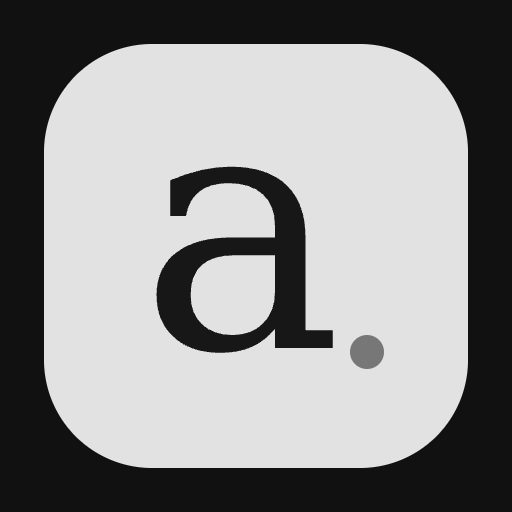
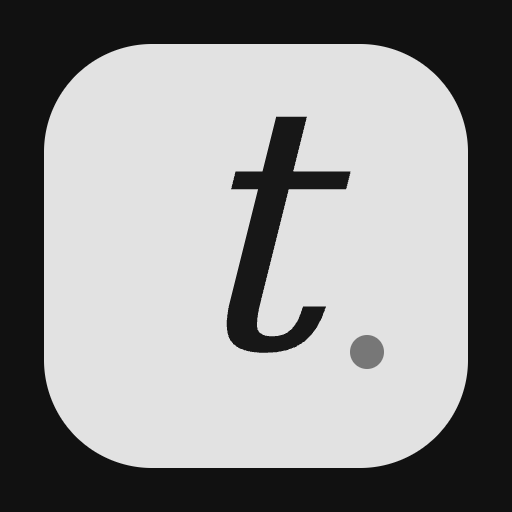
Renombra la app a Tareas y amplía a veinte colores de cursos

Changed region(s): [[0.2812, 0.2188, 0.6875, 0.6875]]

diff --git a/index.html b/index.html
@@ -4,7 +4,7 @@
     <meta charset="utf-8" />
     <meta name="viewport" content="width=device-width,initial-scale=1" />
     <meta name="theme-color" content="#111111" />
-    <title>Apuntes · Tu universidad, en orden</title>
+    <title>Tareas · Tu universidad, en orden</title>
     <link rel="manifest" href="./manifest.webmanifest" />
     <link rel="icon" href="./icons/icon-192.png" />
     <link rel="apple-touch-icon" href="./icons/icon-192.png" />
@@ -16,7 +16,7 @@
   </head>
   <body>
     <div class="prototype">
-      <span>● &nbsp; Apuntes · Gratis, sin anuncios</span
+      <span>● &nbsp; Tareas · Gratis, sin anuncios</span
       ><span><span id="connection-status">Guardado local</span></span>
     </div>
     <div class="layout">
@@ -28,7 +28,7 @@
         >
           ×
         </button>
-        <div class="brand"><span>a</span>apuntes.</div>
+        <div class="brand"><span>t</span>tareas.</div>
         <div class="university">
           <span>U</span>
           <div>Mi universidad<small>Tu espacio, a tu ritmo</small></div>
@@ -104,7 +104,7 @@
               <div class="paper-back"></div>
               <div class="paper-front">
                 <small>UNIVERSIDAD</small>
-                <div>apuntes.</div>
+                <div>tareas.</div>
                 <p>☑ ──────</p>
                 <p>□ ────</p>
                 <p>□ ──────</p>
@@ -364,6 +364,20 @@
             <option value="#dcaebd">Rosa suave</option>
             <option value="#d8cc9f">Arena</option>
             <option value="#a9cdd2">Azul niebla</option>
+            <option value="#edb0a4">Coral</option>
+            <option value="#e8a6ae">Rojo empolvado</option>
+            <option value="#d7a7cf">Malva</option>
+            <option value="#b6a7df">Amatista</option>
+            <option value="#aab0e8">Bígaro</option>
+            <option value="#96b9de">Azul cielo</option>
+            <option value="#97cadc">Celeste</option>
+            <option value="#99d2c8">Turquesa</option>
+            <option value="#acd8bc">Menta</option>
+            <option value="#bdcda8">Salvia</option>
+            <option value="#d0dca8">Lima suave</option>
+            <option value="#e7d599">Amarillo suave</option>
+            <option value="#cbb9a9">Topo</option>
+            <option value="#c7ccd5">Gris perla</option>
           </select></label
         >
         <p class="hint">El curso se guardará en este navegador.</p>
@@ -562,12 +576,9 @@
             hidden /></label
         ><button class="secondary" id="export-recovery">
           Descargar datos sin procesar</button
-        ><a class="secondary" href="./descargas/apuntes-portable.html" download
+        ><a class="secondary" href="./descargas/tareas-portable.html" download
           >Descargar HTML sin instalación</a
-        ><a
-          class="secondary"
-          href="./descargas/apuntes-v1.2.0-beta.zip"
-          download
+        ><a class="secondary" href="./descargas/tareas-v1.3.0-beta.zip" download
           >Descargar paquete ZIP</a
         ><button class="secondary" id="open-cloud">Cuenta y colaboración</button
         ><button class="text" id="load-examples">
@@ -580,7 +591,7 @@
         esta app.
       </p>
       <p class="hint">
-        Versión 1.2.0-beta ·
+        Versión 1.3.0-beta ·
         <a href="./PRIVACY.md" target="_blank" rel="noopener">Privacidad</a> ·
         <a href="./docs/INSTALAR.md" target="_blank" rel="noopener"
           >Cómo instalar</a
@@ -589,7 +600,7 @@
     </dialog>
     <dialog id="install-dialog" class="wide">
       <div class="modal-heading">
-        <h2>Instala Apuntes gratis</h2>
+        <h2>Instala Tareas gratis</h2>
         <button class="icon" data-close="install-dialog" aria-label="Cerrar">
           ×
         </button>
@@ -613,7 +624,7 @@
         HTML descargado directamente, funciona como archivo, pero no se puede
         instalar como PWA.
       </p>
-      <a class="secondary" href="./descargas/apuntes-portable.html" download
+      <a class="secondary" href="./descargas/tareas-portable.html" download
         >Descargar HTML independiente</a
       >
     </dialog>
@@ -634,9 +645,9 @@
           Entrar con Google
         </button>
         <p class="hint">
-          Se abre el navegador para elegir tu cuenta y después vuelves a
-          Apuntes. Tu contraseña de Google no se introduce en esta app. Solo
-          solicitamos tu identidad básica, no acceso a Gmail, Drive ni Calendar.
+          Se abre el navegador para elegir tu cuenta y después vuelves a Tareas.
+          Tu contraseña de Google no se introduce en esta app. Solo solicitamos
+          tu identidad básica, no acceso a Gmail, Drive ni Calendar.
         </p>
         <details id="email-access">
           <summary>Otros métodos: correo y contraseña</summary>

diff --git a/app.js b/app.js
@@ -761,14 +761,14 @@ function deliverReminder(message) {
         navigator.serviceWorker.getRegistration().then((reg) => {
           if (reg)
             reg
-              .showNotification("Apuntes · Tus entregas", {
+              .showNotification("Tareas · Tus entregas", {
                 body: message,
                 tag: "apuntes-reminder",
               })
               .catch(() => {});
         });
       }
-      new Notification("Apuntes · Tus entregas", {
+      new Notification("Tareas · Tus entregas", {
         body: message,
         tag: "apuntes-local-reminder",
       });
@@ -928,7 +928,7 @@ function updateShare() {
   }
   setShareLink(link, "Te comparto una copia: " + currentPayload.title);
   $("#share-error").textContent = nativeAndroid()
-    ? "El receptor necesita Apuntes para Android instalada. El enlace apuntes:// se abre con la app; WhatsApp puede mostrarlo solo como texto."
+    ? "El receptor necesita Tareas para Android instalada. El enlace apuntes:// se abre con la app; WhatsApp puede mostrarlo solo como texto."
     : location.protocol === "file:"
       ? "El enlace de un archivo local no puede abrirse en otro dispositivo. Comparte desde una dirección HTTPS."
       : "Solo se comparten los datos elegidos. No se comparte tu progreso, recordatorios ni notas personales.";
@@ -1487,7 +1487,7 @@ $("#export-backup").addEventListener("click", () => {
     return { ...copy, shareMode: "copy", shareRole: "admin" };
   });
   downloadFile(
-    `apuntes-${offset(0)}.json`,
+    `tareas-${offset(0)}.json`,
     JSON.stringify(
       {
         version: 1,
@@ -1508,7 +1508,7 @@ $("#export-backup").addEventListener("click", () => {
 $("#export-recovery").addEventListener("click", () => {
   try {
     downloadFile(
-      "apuntes-recuperacion.json",
+      "tareas-recuperacion.json",
       JSON.stringify(
         {
           current: localStorage.getItem(STORAGE),
@@ -1530,7 +1530,9 @@ $("#import-backup").addEventListener("change", async (e) => {
       throw Error("El respaldo supera el límite de 2 MB.");
     const data = JSON.parse(await file.text());
     if (!validBackup(data))
-      throw Error("El archivo no es un respaldo válido de Apuntes.");
+      throw Error(
+        "El archivo no es un respaldo válido de Tareas (antes Apuntes).",
+      );
     if (
       (tasks.length || courses.length) &&
       !confirm(

diff --git a/src/install.js b/src/install.js
@@ -22,7 +22,7 @@ export function setupInstall(notify) {
   });
   window.addEventListener("appinstalled", () => {
     button.textContent = "App instalada";
-    notify("Apuntes ya está instalada.");
+    notify("Tareas ya está instalada.");
   });
   const status = document.querySelector("#connection-status");
   let offlineReady = location.protocol === "file:" || nativeAndroid();
@@ -51,7 +51,7 @@ export function setupInstall(notify) {
               navigator.serviceWorker.controller
             )
               notify(
-                "Hay una actualización. Cierra todas las ventanas de Apuntes y vuelve a abrir.",
+                "Hay una actualización. Cierra todas las ventanas de Tareas y vuelve a abrir.",
               );
           });
         check(reg.installing);

diff --git a/sw.js b/sw.js
@@ -1,4 +1,4 @@
-const CACHE = "apuntes-v1.2.0-beta";
+const CACHE = "apuntes-v1.3.0-beta";
 const ASSETS = [
   "./",
   "./index.html",

diff --git a/android/app/src/androidTest/java/pe/apuntes/app/AppTest.java b/android/app/src/androidTest/java/pe/apuntes/app/AppTest.java
@@ -97,8 +97,10 @@ public class AppTest {
         try(ActivityScenario<MainActivity> scenario=ActivityScenario.launch(MainActivity.class)){
             scenario.onActivity(a->activity=a);
             waitFor("!!document.querySelector('#install-app:disabled') && document.querySelector('#connection-status').textContent.toLowerCase().includes('sin conexión')");
+            assertEquals("Tareas",activity.getApplicationInfo().loadLabel(activity.getPackageManager()).toString());
+            assertEquals("20",js("document.querySelector('#course-color').options.length"));
             assertEquals("0",js("document.querySelectorAll('.task').length"));
-            js("document.querySelector('[data-view=courses]').click();document.querySelector('#add-course').click();document.querySelector('#course-name').value='Física móvil';document.querySelector('#course-form').requestSubmit();");
+            js("document.querySelector('[data-view=courses]').click();document.querySelector('#add-course').click();document.querySelector('#course-name').value='Física móvil';document.querySelector('#course-color').value='#99d2c8';document.querySelector('#course-form').requestSubmit();");
             waitFor("document.querySelector('#courses-count').textContent==='1'");
             js("document.querySelector('[data-view=pending]').click();document.querySelector('#new-task').click();document.querySelector('#task-title').value='Entrega Android';document.querySelector('#task-due').value='2030-01-01';document.querySelector('#task-notes').value='Notas ñ 🎓';document.querySelector('#task-form').requestSubmit();");
             waitFor("document.querySelectorAll('#task-list .task').length===1");
@@ -118,6 +120,7 @@ public class AppTest {
             JSONObject backup=new JSONObject(new String(Files.readAllBytes(output.toPath()),StandardCharsets.UTF_8));
             assertEquals("Editada en Android",backup.getJSONArray("tasks").getJSONObject(0).getString("title"));
             assertEquals("Notas ñ 🎓",backup.getJSONArray("tasks").getJSONObject(0).getString("notes"));
+            assertEquals("#99d2c8",backup.getJSONArray("courses").getJSONObject(0).getString("color"));
             scenario.recreate();scenario.onActivity(a->activity=a);
             waitFor("document.querySelector('.task-title-button')?.textContent==='Editada en Android'");
             // Links generated by the APK must target this app, never appassets.androidplatform.net.

diff --git a/docs/GOOGLE.md b/docs/GOOGLE.md
@@ -2,18 +2,18 @@
 
 Decisión del propietario: usar Google en lugar de contratar SMTP o publicar una dirección postal. No hay que continuar el registro en Brevo. **El proveedor Google aún requiere configuración del propietario; incluir el botón no lo activa.**
 
-## Qué solicita Apuntes
+## Qué solicita Tareas
 
 Solo `openid`, correo y perfil básico. No solicita Gmail, Drive, Calendar, contactos ni acceso offline a servicios Google. La contraseña se introduce únicamente en Google, desde el navegador del sistema, no dentro de la app. Supabase administra las identidades y las sesiones sujetas a las RLS instaladas.
 
-El APK 1.2 incluye la URL/clave pública del proyecto real. No incluye ni necesita una contraseña Google ni el secreto OAuth del cliente. El APK 1.1 no tiene esta función: necesita una nueva instalación (primero exporta respaldo).
+El APK 1.3 incluye la URL/clave pública del proyecto real. No incluye ni necesita una contraseña Google ni el secreto OAuth del cliente. El APK 1.1 no tiene esta función: necesita una nueva instalación (primero exporta respaldo).
 
 ## Configuración manual segura (una sola vez)
 
 La integración del agente con Supabase permite administrar las opciones básicas de Auth, pero no introducir credenciales del proveedor Google. No existe una conexión de Google Cloud disponible en esta conversación. **El propietario debe configurar las credenciales directamente en los paneles, no enviarlas al chat.**
 
-1. Abre https://console.cloud.google.com/ y selecciona/crea un proyecto para **Apuntes**. Este acceso usa Google Auth Platform/OAuth, no Gmail API, Drive ni Calendar. No habilites servicios de pago ni facturación para estos pasos. Si el panel exige contratar algo, detente.
-2. En **Google Auth Platform → Branding**, configura el nombre **Apuntes**, un correo de asistencia y un correo de contacto que controles. No inventes una empresa ni una dirección postal. Si no tienes web, no inventes una URL. El dominio de retorno se describe en la documentación oficial de Supabase enlazada abajo.
+1. Abre https://console.cloud.google.com/ y selecciona el proyecto existente **tareas** que el propietario ya creó. No crees otro proyecto. Este acceso usa Google Auth Platform/OAuth, no Gmail API, Drive ni Calendar. No habilites servicios de pago ni facturación para estos pasos. Si el panel exige contratar algo, detente.
+2. En **Google Auth Platform → Branding**, configura el nombre **Tareas**, un correo de asistencia y un correo de contacto que controles. No inventes una empresa ni una dirección postal. Si no tienes web, no inventes una URL. El dominio de retorno se describe en la documentación oficial de Supabase enlazada abajo.
 3. En **Audience**, elige **External** si tus compañeros no pertenecen a una organización Workspace. Mientras esté en **Testing**, agrega explícitamente los correos de prueba; las demás personas no podrán entrar. Para distribuir libremente hay que pasar a **In production** y cumplir los requisitos que Google muestre. No confundas probar con dos usuarios autorizados con acceso público ya habilitado. La verificación de marca es distinta de la de scopes sensibles; no solicites scopes adicionales.
 4. En **Data Access**, limita los permisos a `openid`, `.../auth/userinfo.email` y `.../auth/userinfo.profile`.
 5. En **Clients**, crea un cliente OAuth de tipo **Web application** (el retorno de Google es al servidor Supabase, no directamente a Android). En **Authorized redirect URIs** introduce exactamente:
@@ -32,8 +32,8 @@ La documentación oficial es la referencia si cambian las etiquetas o Google pid
 
 1. Exporta respaldo JSON de la versión anterior. Las betas usan firma de prueba y Android puede exigir desinstalar la anterior: desinstalar borra los datos. Importa el respaldo en la nueva versión.
 2. **Ajustes y respaldo → Cuenta y colaboración → Entrar con Google**. Sin proveedor activo, la app explica que falta configurar Google; no simula un acceso.
-3. Elige la cuenta en el navegador y permite regresar a Apuntes. La app intercambia un código de un solo uso usando **PKCE S256**. El verificador temporal tiene validez máxima de 10 minutos y se elimina al consumir el retorno, cancelar o cambiar de servicio. Si se cierra el navegador sin regresar, queda inválido al caducar y se sustituye al volver a intentar. No acepta tokens puestos en enlaces.
-4. Si cancelas en el navegador, vuelve a Apuntes y pulsa el botón otra vez. Si aparece un error de redirect, verifica ambas URL de los pasos 5 y 7; no desactives controles de seguridad.
+3. Elige la cuenta en el navegador y permite regresar a Tareas. La app intercambia un código de un solo uso usando **PKCE S256**. El verificador temporal tiene validez máxima de 10 minutos y se elimina al consumir el retorno, cancelar o cambiar de servicio. Si se cierra el navegador sin regresar, queda inválido al caducar y se sustituye al volver a intentar. No acepta tokens puestos en enlaces.
+4. Si cancelas en el navegador, vuelve a Tareas y pulsa el botón otra vez. Si aparece un error de redirect, verifica ambas URL de los pasos 5 y 7; no desactives controles de seguridad.
 5. Comprueba tu correo en la pantalla de cuenta y crea una invitación a un deber/curso. Abre el enlace con otra cuenta autorizada en otro dispositivo/perfil y verifica edición común y progreso independiente. No se considera completada la colaboración hasta hacer esta prueba real.
 
 Solo se conserva la sesión Supabase durante la sesión de la app; no se guardan tokens Google ni la contraseña en el dispositivo. Una nueva sesión de la app puede pedir elegir tu cuenta otra vez. Los deberes locales continúan disponibles sin conexión.

diff --git a/PRIVACY.md b/PRIVACY.md
@@ -1,4 +1,4 @@
-# Privacidad de Apuntes
+# Privacidad de Tareas
 
 La app no incorpora anuncios, analítica, seguimiento ni scripts de terceros. No requiere cuenta para usar datos locales. Sus archivos, iconos y tipografías del sistema no dependen de un CDN.
 
@@ -12,7 +12,7 @@ La caché de la PWA contiene solo archivos estáticos, nunca respuestas de auten
 
 - Una copia incluye los títulos, cursos, fechas y los datos opcionales elegidos. Su contenido viaja en el fragmento del enlace; quien tenga el enlace puede leerlo. No es revocable ni sincroniza cambios.
 - WhatsApp solo se abre por una acción tuya con un borrador. No se envía automáticamente; se aplican las políticas de WhatsApp cuando uses ese canal.
-- El APK 1.2 contiene la conexión pública al proyecto Supabase del propietario. No sube tus deberes locales por abrir la app. Al entrar o colaborar, se envían el correo/credenciales de acceso, pertenencia y roles, contenido común de deberes, invitaciones y progreso individual a ese servicio. Cada persona solo accede a sus progresos y al contenido de sus espacios conforme a las políticas de servidor. Las notas personales y los recordatorios siguen siendo locales.
+- El APK 1.3 contiene la conexión pública al proyecto Supabase del propietario. No sube tus deberes locales por abrir la app. Al entrar o colaborar, se envían el correo/credenciales de acceso, pertenencia y roles, contenido común de deberes, invitaciones y progreso individual a ese servicio. Cada persona solo accede a sus progresos y al contenido de sus espacios conforme a las políticas de servidor. Las notas personales y los recordatorios siguen siendo locales.
 - El proveedor de alojamiento puede registrar accesos e IPs. El propietario debe revisar términos, cuotas, retención y ubicación de datos de sus proveedores antes de abrir la app a otras personas.
 
 ## Permisos
@@ -21,9 +21,9 @@ Las notificaciones se piden solo al pulsar el botón correspondiente. No se soli
 
 ## Acceso con Google
 
-Es opcional para usar datos locales. Se abre el navegador del sistema y Google comparte con Supabase la identidad básica (identificador, correo y perfil) para autenticar tu cuenta. Apuntes solo utiliza ID/correo de la sesión Supabase; no pide leer Gmail, Drive, Calendar ni contactos. Las políticas de Google y Supabase se aplican a ese proceso. Nunca introduzcas la contraseña Google dentro de Apuntes.
+Es opcional para usar datos locales. Se abre el navegador del sistema y Google comparte con Supabase la identidad básica (identificador, correo y perfil) para autenticar tu cuenta. Tareas solo utiliza ID/correo de la sesión Supabase; no pide leer Gmail, Drive, Calendar ni contactos. Las políticas de Google y Supabase se aplican a ese proceso. Nunca introduzcas la contraseña Google dentro de Tareas.
 
-El verificador PKCE y el identificador de una invitación pendiente se guardan temporalmente en almacenamiento local. Solo son válidos durante 10 minutos para el mismo servicio y retorno, y se consumen antes del intercambio del código. Si abandonas el navegador sin volver, el dato caducado puede permanecer hasta el siguiente intento; no permite iniciar sesión una vez caducado. La app no conserva tokens de acceso de Google ni su secreto OAuth. El código de retorno se borra del historial de la vista local; los tokens Supabase quedan solo en sessionStorage, no en respaldos. El proveedor puede mantener su propia sesión en el navegador; cerrar sesión en Apuntes no cierra tu cuenta de Google en otras aplicaciones.
+El verificador PKCE y el identificador de una invitación pendiente se guardan temporalmente en almacenamiento local. Solo son válidos durante 10 minutos para el mismo servicio y retorno, y se consumen antes del intercambio del código. Si abandonas el navegador sin volver, el dato caducado puede permanecer hasta el siguiente intento; no permite iniciar sesión una vez caducado. La app no conserva tokens de acceso de Google ni su secreto OAuth. El código de retorno se borra del historial de la vista local; los tokens Supabase quedan solo en sessionStorage, no en respaldos. El proveedor puede mantener su propia sesión en el navegador; cerrar sesión en Tareas no cierra tu cuenta de Google en otras aplicaciones.
 
 ## Borrar o exportar
 

diff --git a/docs/ANDROID.md b/docs/ANDROID.md
@@ -1,13 +1,13 @@
-# Apuntes Android 1.2 · Beta instalable
+# Tareas Android 1.3 · Beta instalable
 
 Esta versión añade un **APK real para Android 8 o posterior**, con el diseño Grafito y la app incluida dentro del instalador. No es un enlace a una página remota: crear cursos/deberes, editar, completar, calendario y respaldos funcionan sin red desde el primer inicio.
 
 ## Descargar e instalar
 
-1. En el celular Android, abre https://github.com/enriqueortizvasquez-prog/App-apuntes/releases/tag/v1.2.0-beta
-2. En **Assets / Recursos**, descarga **apuntes-android-v1.2.0-beta.apk**.
+1. En el celular Android, abre https://github.com/enriqueortizvasquez-prog/App-apuntes/releases/tag/v1.3.0-beta
+2. En **Assets / Recursos**, descarga **tareas-android-v1.3.0-beta.apk**.
 3. Abre el archivo descargado. Si Android lo solicita, permite temporalmente «Instalar apps desconocidas» **solo para el navegador o gestor de archivos que estás usando**. Después puedes volver a desactivar ese permiso.
-4. Confirma «Instalar» y abre **Apuntes** desde su icono.
+4. Confirma «Instalar» y abre **Tareas** desde su icono.
 
 No desactives Play Protect ni otras protecciones del dispositivo. Si Android muestra un bloqueo de seguridad distinto del permiso de instalación, no lo fuerces: revisa el mensaje antes de continuar. No es una publicación en Google Play ni una aplicación para iPhone.
 
@@ -24,7 +24,7 @@ El almacenamiento del APK es distinto del de Chrome: para trasladar tus deberes 
 
 ## Colaboración y acceso Google
 
-El APK 1.2 incluye el proyecto público Supabase del propietario, cuya base/RLS ya se instaló y comprobó. **El acceso Google requiere todavía configurar y activar el proveedor**, siguiendo [GOOGLE.md](GOOGLE.md). No se presenta como un servicio de autenticación ya probado con cuentas reales.
+El APK 1.3 incluye el proyecto público Supabase del propietario, cuya base/RLS ya se instaló y comprobó. **El acceso Google requiere todavía configurar y activar el proveedor**, siguiendo [GOOGLE.md](GOOGLE.md). No se presenta como un servicio de autenticación ya probado con cuentas reales.
 
 - En Cuenta y colaboración: **Entrar con Google** abre el navegador externo y regresa a `apuntes://open`.
 - PKCE S256: solo se acepta un código asociado a un acceso iniciado en este dispositivo y servicio, durante 10 minutos. No se aceptan tokens en enlaces.
@@ -68,3 +68,11 @@ La ejecución [40944333232](https://github.com/enriqueortizvasquez-prog/App-apun
[1 lines of base64/hex data omitted]
 
 **Esto no prueba el consentimiento de una cuenta Google real.** El proveedor sigue pendiente de configurar por el propietario; el APK comprueba ese estado y no simula un acceso. No publiques el secreto OAuth ni desactives la verificación de identidad.
+
+## Cambio de nombre: Tareas 1.3
+
+Nombre visible, iconos web/Android, notificaciones y descargas actualizados a **Tareas**. Los cursos ahora ofrecen 20 colores pastel, manteniendo los 6 originales y sus valores. Los colores elegidos se conservan en respaldos, copias y sincronización. El diseño Grafito y los indicadores de vencimiento no cambian.
+
+Se conservan el identificador Android `pe.apuntes.app`, las claves de almacenamiento y `apuntes://open` para no romper datos ni invitaciones ni el retorno autorizado en Supabase. El proyecto Google existente se llama **tareas**; el nombre no significa que OAuth ya esté activado. Exporta respaldo antes de cambiar de APK beta por la posible diferencia de firma.
+
+La publicación 1.3 está condicionada a sus propias pruebas. La descarga 1.2 no se modifica.

diff --git a/README.md b/README.md
@@ -1,4 +1,6 @@
-# Apuntes
+# Tareas
+
+Antes **Apuntes**: mismo proyecto, datos y enlaces compatibles. La versión 1.3 cambia el nombre visible y el icono a Tareas y amplía de 6 a **20 colores pastel** para cursos. No cambia los permisos ni activa Google automáticamente. El propietario ya creó un proyecto de Google llamado **tareas**; todavía hay que completar OAuth.
 
 Una app gratuita para organizar los deberes de la universidad. Diseño **Grafito**, sin anuncios y sin suscripción propia. Instalable como PWA en Android, iPhone/iPad y escritorio desde un sitio HTTPS. También se entrega un **HTML independiente** que se puede descargar y abrir sin instalar nada.
 
@@ -30,7 +32,7 @@ El esquema y los permisos ya se instalaron y probaron en el proyecto Supabase de
 
 ## Android: APK instalable
 
-La versión **1.2.0-beta** añade un APK con la app incluida, almacenamiento local, respaldos nativos y enlaces que abre Android. La compilación se publica en [Releases](https://github.com/enriqueortizvasquez-prog/App-apuntes/releases/tag/v1.2.0-beta) solo tras superar las pruebas instrumentadas. Consulta [instalación, firma beta y límites](docs/ANDROID.md). **No se presenta como colaboración ya probada:** falta activar el proveedor Google.
+La versión **1.3.0-beta** añade un APK con la app incluida, almacenamiento local, respaldos nativos y enlaces que abre Android. La compilación se publica en [Releases](https://github.com/enriqueortizvasquez-prog/App-apuntes/releases/tag/v1.3.0-beta) solo tras superar las pruebas instrumentadas. Consulta [instalación, firma beta y límites](docs/ANDROID.md). **No se presenta como colaboración ya probada:** falta activar el proveedor Google.
 
 ## Usar o descargar gratis
 
@@ -56,8 +58,8 @@ npm run dev       # 0.0.0.0:3000
 `npm run build` produce:
 
 - `dist/`: sitio estático listo para HTTPS, incluyendo rutas relativas compatibles con `/App-apuntes/`.
-- `dist/descargas/apuntes-portable.html`: una sola página con JS/CSS incrustados.
-- `dist/descargas/apuntes-v1.2.0-beta.zip`: sitio, HTML portable, instrucciones y SQL opcional.
+- `dist/descargas/tareas-portable.html`: una sola página con JS/CSS incrustados.
+- `dist/descargas/tareas-v1.3.0-beta.zip`: sitio, HTML portable, instrucciones y SQL opcional.
 
 Para servir el resultado de producción: `SERVE_DIR=dist npm run dev`. No publiques `node_modules` ni archivos de pruebas/credenciales.
 

diff --git a/docs/PRUEBAS.md b/docs/PRUEBAS.md
@@ -59,3 +59,9 @@ El 29 de octubre se consultó Auth real: `external_google_enabled=false`, Client
 [40944333232](https://github.com/enriqueortizvasquez-prog/App-apuntes/actions/runs/40944333232), revisión `55aa71757823fa294b4507173e44c9709c37c789`: **SUCCESS**. Compilación, suites web y cuatro pruebas instrumentadas, firma y publicación de la nueva beta 1.2 completadas. La primera ejecución 40943396262 detectó un retorno cálido que solo cambiaba el fragmento, sin recargar el WebView; se corrigió el manejo de hashchange y se añadió una regresión de navegador. La descarga no se publicó hasta pasar la ejecución corregida.
 
[1 lines of base64/hex data omitted]
+
+## Tareas 1.3: nombre y paleta
+
+La versión 1.3 conserva la identidad técnica y los datos de Apuntes, pero cambia el nombre visible a **Tareas**, los iconos a la letra t y amplía la paleta de 6 a **20 colores**. Una prueba adicional comprueba manifest/etiqueta Android e identidad antigua; la suite web crea 20 cursos con todos los colores, verifica sus valores tras recargar y en las tarjetas, y comprueba el nombre y la paleta de la descarga portable y del diálogo móvil. La prueba Android verifica la etiqueta instalada, las 20 opciones y el nuevo color turquesa en el respaldo JSON.
+
+Resultado local: **16 pruebas unitarias/PGlite y suite web completas**, sin errores JavaScript. La publicación del APK 1.3 depende de su propia ejecución Android; no sustituye las descargas 1.1/1.2. OAuth Google real sigue pendiente de activar en el proyecto Google existente **tareas**; no hay que crear otro proyecto ni contratar facturación.

diff --git a/docs/INSTALAR.md b/docs/INSTALAR.md
@@ -1,4 +1,4 @@
-# Descargar e instalar Apuntes gratis
+# Descargar e instalar Tareas gratis
 
 ## Descargar un solo archivo
 
@@ -18,7 +18,7 @@ Abre la app una vez con conexión para que se descarguen los archivos. Después 
 
 ## APK para Android
 
-La versión 1.2.0-beta incluye un APK instalable sin depender de una página remota. Consulta `ANDROID.md` para descargar, instalar, guardar respaldos y revisar las limitaciones de su firma de prueba. El APK no es una aplicación para iPhone. Añade acceso Google en el navegador, pendiente de configurar el proveedor (`GOOGLE.md`); exporta respaldo antes de cambiar desde una beta anterior porque la firma puede ser distinta.
+La versión 1.3.0-beta incluye un APK instalable sin depender de una página remota. Consulta `ANDROID.md` para descargar, instalar, guardar respaldos y revisar las limitaciones de su firma de prueba. El APK no es una aplicación para iPhone. Añade acceso Google en el navegador, pendiente de configurar el proveedor (`GOOGLE.md`); exporta respaldo antes de cambiar desde una beta anterior porque la firma puede ser distinta.
 
 ## Publicación
 
